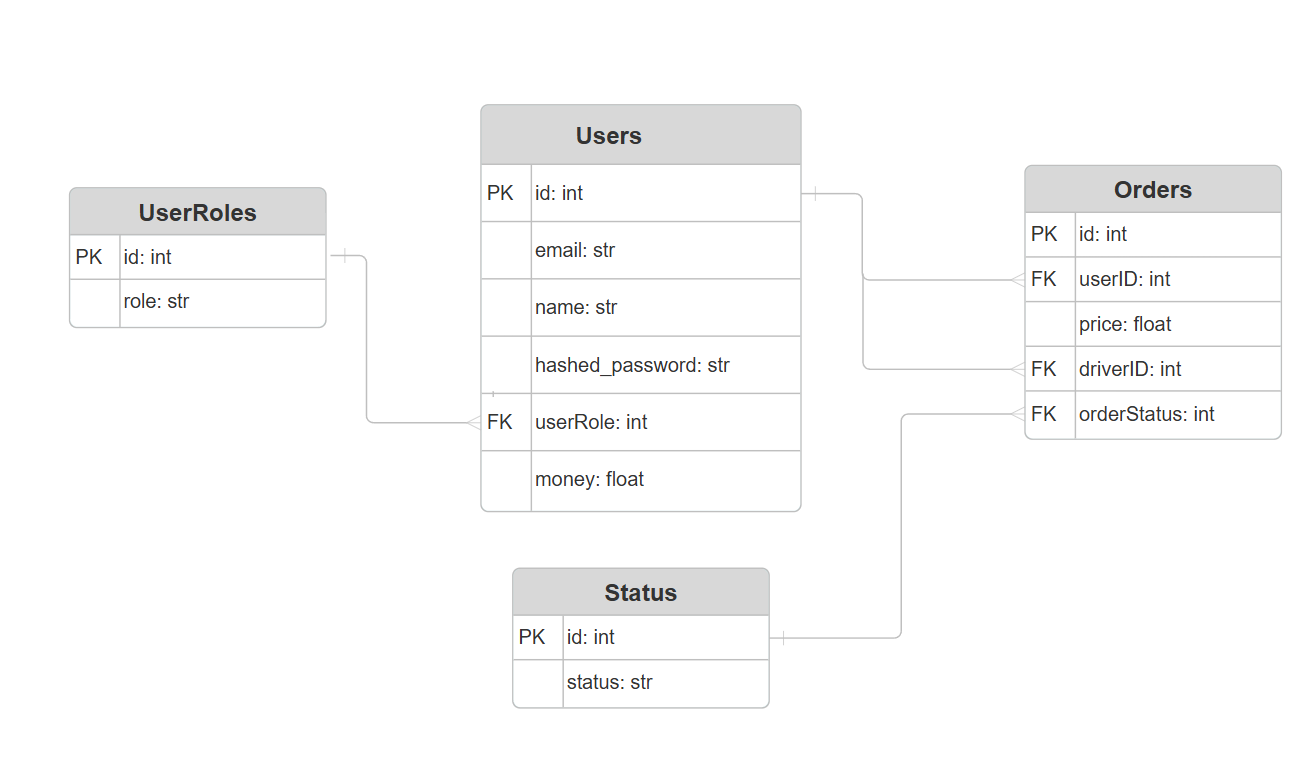
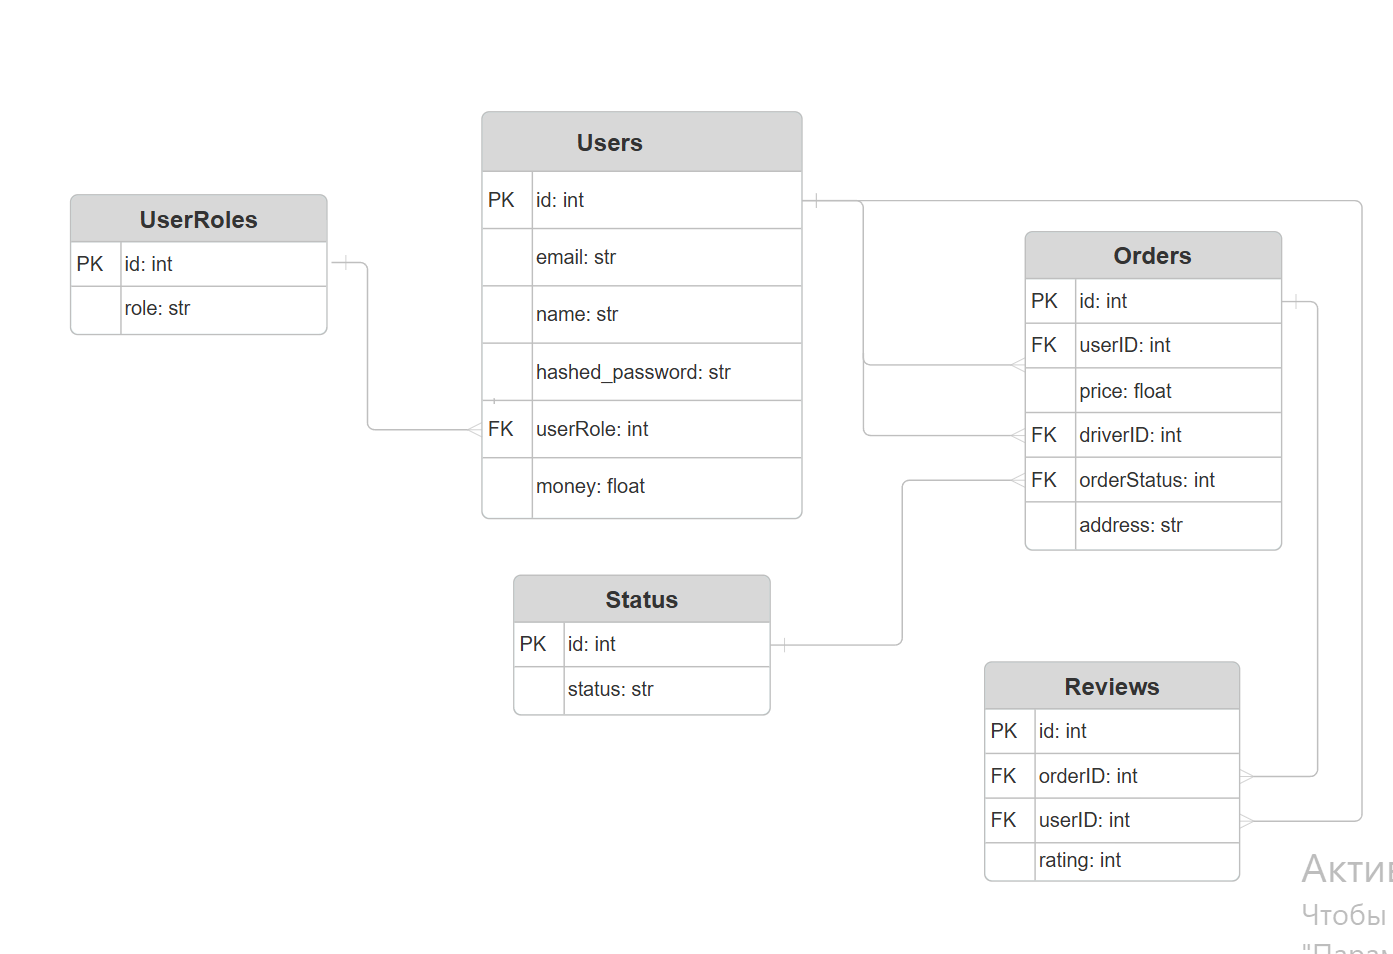
Финальная стадия проекта

diff --git a/src/models/enums.py b/src/models/enums.py
@@ -2,7 +2,7 @@ from enum import Enum
 
 class OrderStatus(str, Enum):
 
-    FREE = "free"                # Свободен (ожидает водителя)
-    IN_PROGRESS = "in_progress"  # В процессе
-    CANCELLED = "cancelled"      # Отменен
-    COMPLETED = "completed"      # Выполнен
+    FREE = "free"                
+    IN_PROGRESS = "in_progress"  
+    CANCELLED = "cancelled"      
+    COMPLETED = "completed"      

diff --git a/src/menu.py b/src/menu.py
@@ -171,7 +171,8 @@ def driver_menu(user):
                 order_service.completed_order(id=oid, driverID=user.id)
             except ValueError:
                 print("Номер должен быть числом.")
-
+        elif choice == "0":
+            break
 
 
 def run_app():

diff --git a/README.md b/README.md
@@ -2,7 +2,7 @@
 
 
 ### Задача
-Делаем монолитное десктопное приложение для учёта заказов такси. В системе две роли — пассажир (клиент) и таксист. Пассажир регистрируется, входит в систему, заказывает такси (указывает адрес подачи и адрес назначения), видит рассчитанную стоимость поездки, следит за статусом заказа (создан → принят → в пути → завершён → отменён) и может посмотреть историю своих поездок. Таксист видит список доступных заказов, берёт их в работу и меняет статус по мере выполнения. 
+Делаем монолитное десктопное приложение для учёта заказов такси. В системе две роли — пассажир (клиент) и таксист. Пассажир регистрируется, входит в систему, заказывает такси (указывается адрес назначения), видит рассчитанную стоимость поездки, следит за статусом заказа (создан → принят → завершён → отменён) и может посмотреть историю своих поездок. Таксист видит список доступных заказов, берёт их в работу и меняет статус по мере выполнения. 
 
 ### Архитектура и технологии 
 Архитектура — монолит, слоистая. Разбиваем код на три слоя: слой представления (консоль), слой бизнес-логики (сервисы — расчёт стоимости, смена статусов, проверки) и слой доступа к данным (репозитории — CRUD-запросы к PostgreSQL). Всё пишем на Python БД — PostgreSQL, интерфейс — консоль. Рабочая система, где один пользователь заказывает, другой выполняет, а данные честно лежат в базе. 
